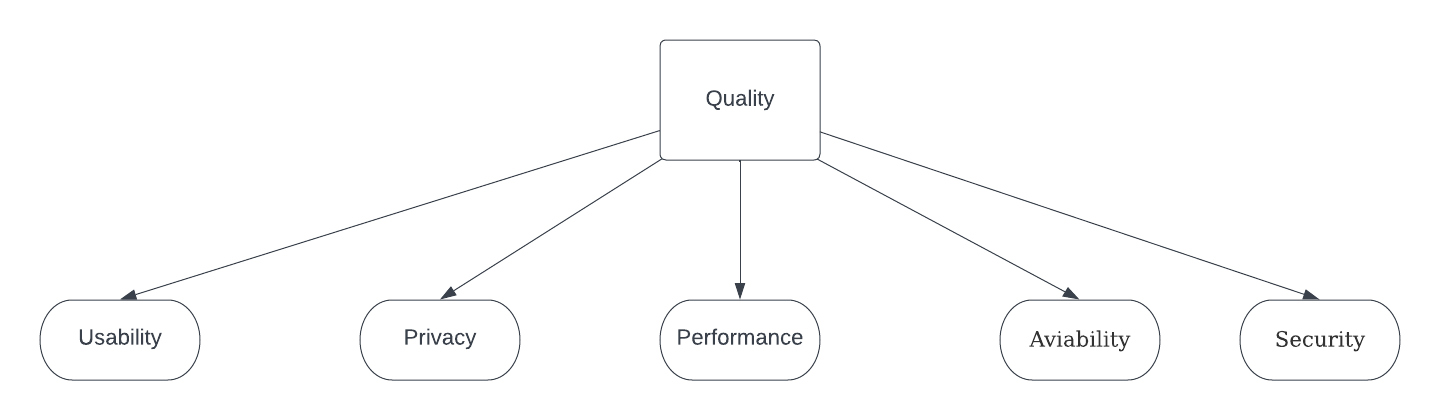
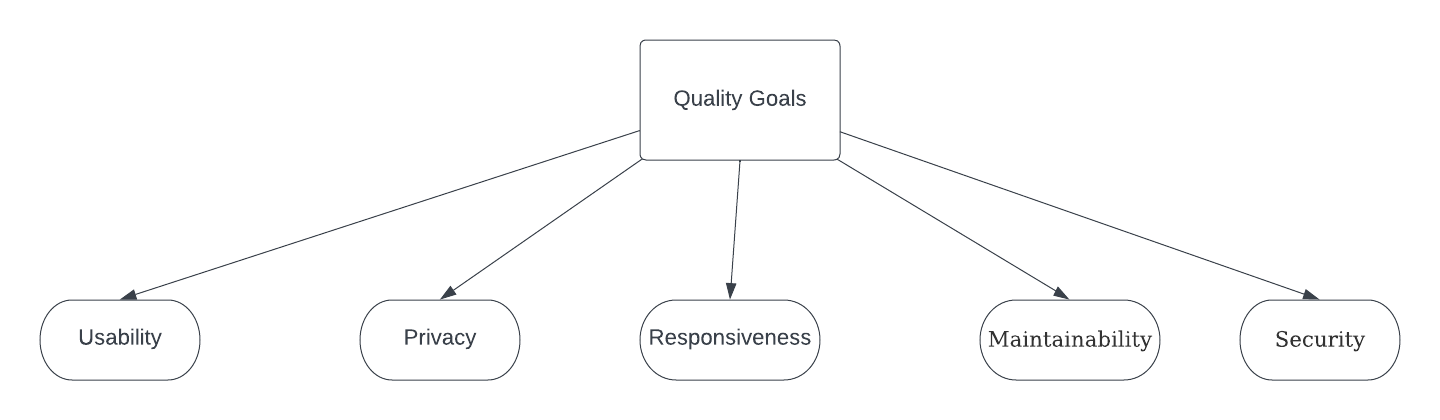
Updates

diff --git a/index.html b/index.html
@@ -1889,6 +1889,45 @@ concrete and measurable.</p>
 </div>
 <div class="sect2">
 <h3 id="_quality_scenarios">10.2. Quality Scenarios</h3>
+<table class="tableblock frame-all grid-all stretch">
+<colgroup>
+<col style="width: 33.3333%;">
+<col style="width: 33.3333%;">
+<col style="width: 33.3334%;">
+</colgroup>
+<tbody>
+<tr>
+<td class="tableblock halign-left valign-top"><p class="tableblock"><strong>Quality Requirement</strong></p></td>
+<td class="tableblock halign-left valign-top"><p class="tableblock"><strong>Scenario</strong></p></td>
+<td class="tableblock halign-left valign-top"><p class="tableblock"><strong>Priority</strong></p></td>
+</tr>
+<tr>
+<td class="tableblock halign-left valign-top"><p class="tableblock">Responsiveness</p></td>
+<td class="tableblock halign-left valign-top"><p class="tableblock">The application needs to have a fast response time. Any user should be able to use the features of the app with no major problems and without having noticeable delays on response times.</p></td>
+<td class="tableblock halign-left valign-top"><p class="tableblock">High</p></td>
+</tr>
+<tr>
+<td class="tableblock halign-left valign-top"><p class="tableblock">Maintainability</p></td>
+<td class="tableblock halign-left valign-top"><p class="tableblock">All of the code should be written in such a way that it can be easily modified and reused. Also, it is important that any errors or bugs can be easily fixed.LoMap will be developed minding the readability of its code and documentation.</p></td>
+<td class="tableblock halign-left valign-top"><p class="tableblock">High</p></td>
+</tr>
+<tr>
+<td class="tableblock halign-left valign-top"><p class="tableblock">Security</p></td>
+<td class="tableblock halign-left valign-top"><p class="tableblock">The user&#8217;s data will be saved and retrieved from a secured pod. We want the users to trust our application with their private data.</p></td>
+<td class="tableblock halign-left valign-top"><p class="tableblock">High</p></td>
+</tr>
+<tr>
+<td class="tableblock halign-left valign-top"><p class="tableblock">Usability</p></td>
+<td class="tableblock halign-left valign-top"><p class="tableblock">Our application will be easy to use for all types of users. It should be easy to understand and performing all the wanted actions shouldn&#8217;t raise without problems.</p></td>
+<td class="tableblock halign-left valign-top"><p class="tableblock">Medium</p></td>
+</tr>
+<tr>
+<td class="tableblock halign-left valign-top"><p class="tableblock">Privacy</p></td>
+<td class="tableblock halign-left valign-top"><p class="tableblock">The user will have the option to choose with who he wants to share his data with.</p></td>
+<td class="tableblock halign-left valign-top"><p class="tableblock">Medium</p></td>
+</tr>
+</tbody>
+</table>
 <div class="sidebarblock arc42help">
 <div class="content">
 <div class="paragraph">
